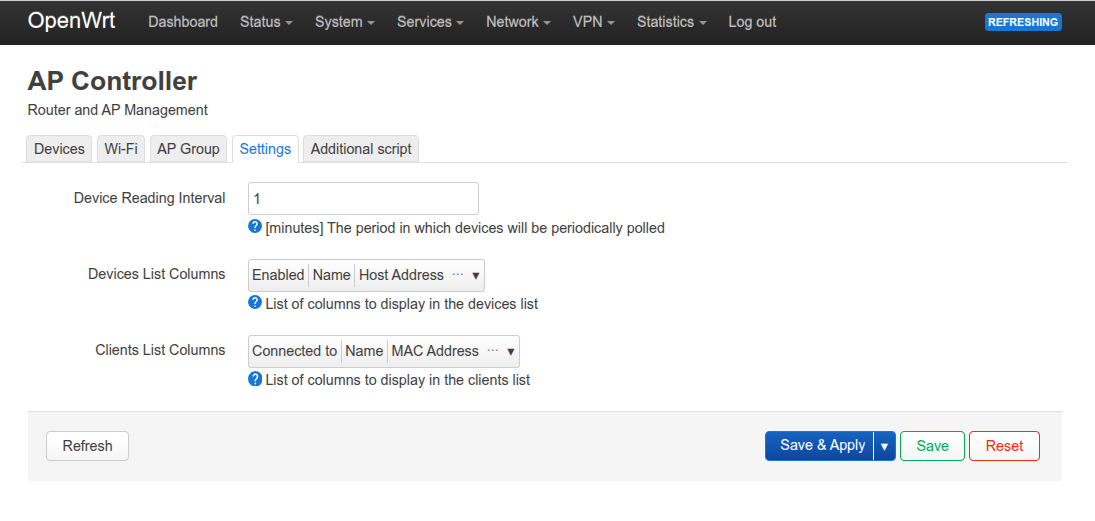
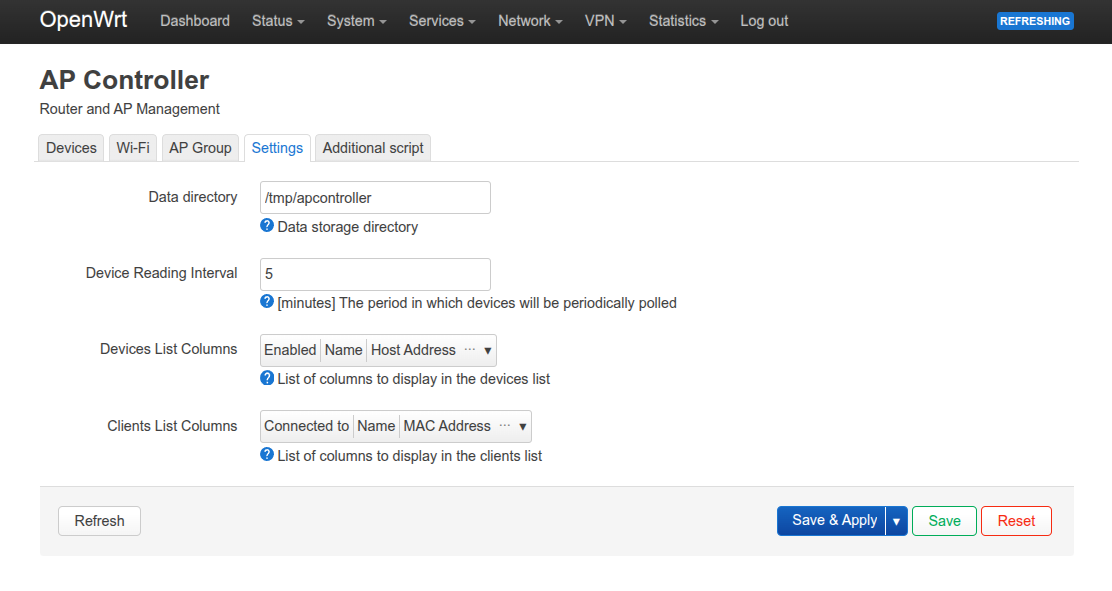
Changes to the project
- Ability to change the data storage path
- Data for disabled devices is not parsed
- Minor bug fixes

diff --git a/luci-app-apcontroller/htdocs/luci-static/resources/view/apcontroller/apcontroller.js b/luci-app-apcontroller/htdocs/luci-static/resources/view/apcontroller/apcontroller.js
@@ -322,7 +322,7 @@ return view.extend({
 
 			cbi_update_table(table, rows);
 
-			return E('div', [ E('h3', _('Connected clients')), table ]);
+			return E('div', [ E('h3', _('Connected Wireless Clients')), table ]);
 		}
 
 		function refreshDeviceGrid() {
@@ -604,7 +604,7 @@ return view.extend({
 			const row = this.cfgvalue(section_id);
 
 			function formatDate(date) {
-				return date.toISOString().split('T')[0];
+				return date.getFullYear() + '-' + lz(date.getMonth() + 1) + '-' + lz(date.getDate());
 			}
 
 			const now = new Date();
@@ -655,7 +655,7 @@ return view.extend({
 
 					table.push(
 						E('div', { 'style': 'position: relative;width: 14px;background: var(--border-color-low);border-radius: 2px;box-shadow: 0 1px 2px #0001;box-sizing: border-box;' }, [
-							E('div', { 'style': css }, [ ' ' ])
+							E('div', { 'style': css, 'title': day + ': ' + h }, [ ' ' ])
 						])
 					);
 				}
@@ -1139,6 +1139,9 @@ return view.extend({
 				return nodes;
 			});
 		};
+
+		o = s.option(form.Value, 'path', _('Data directory'), _('Data storage directory'))
+		o.rmempty = false;
 
 		o = s.option(form.Value, 'interval', _('Device Reading Interval'), _('[minutes] The period in which devices will be periodically polled'));
 		o.datatype = 'and(uinteger,min(1),max(9999))';

diff --git a/README.pl.md b/README.pl.md
@@ -45,7 +45,7 @@ Autoryzacja w AP domyślnie odbywa się za pomocą pary nazwa użytkownika/hasł
 mkdir /root/.ssh
 dropbearkey  -f /root/.ssh/id_dropbear
 ssh root@192.168.1.2 "tee -a /etc/dropbear/authorized_keys" < /root/.ssh/id_dropbear.pub
-ssh root@192.168.1.5 "tee -a /etc/dropbear/authorized_keys" < /root/.ssh/id_dropbear.pub
+ssh root@192.168.1.3 "tee -a /etc/dropbear/authorized_keys" < /root/.ssh/id_dropbear.pub
 itd...
 ```
 ## Wysyłanie konfiguracji do urządzeń
